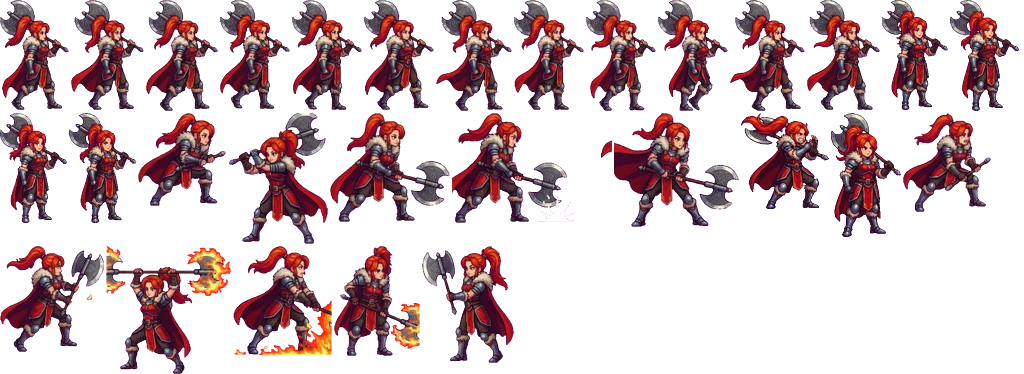
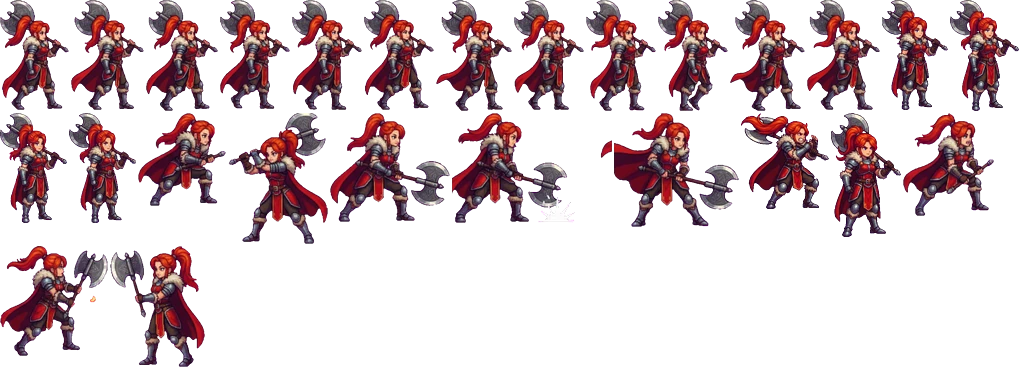
Héroes a escala de los NPC, ataques más legibles, pista del Portal que no tapa y medallones en las misiones
- Héroes un 24% más grandes (a la par o algo más que los vecinos de la villa)
- El golpe cuerpo a cuerpo reparte su animación por todo el intervalo entre golpes
- Fuera los fotogramas de frente o rotos (lanzamiento de la Artificiera, hechizo de Rompeyelmos)
- La pista «camina hasta el Portal» se quita en cuanto el Portal o un vecino muestran su aviso
- Misiones diarias con medallón pintado por tipo (brilla al completarse); icono pintado en el Tablón

Claude-Session: https://claude.ai/code/session_015RNUyaQ6fKR3Ufego5oPP2

Changed region(s): [[0.0, 0.0599, 1.0, 1.0]]

diff --git a/www/js/anim_data.js b/www/js/anim_data.js
@@ -1,3 +1,3 @@
 /* Generado por tools/art/build_heroes.py — no editar a mano. */
 'use strict';
-const HERO_ANIM = {"iop":{"bh":110,"walk":[[0,0,69,110,31.8,109.3],[71,0,73,110,35.5,110.0],[146,0,72,111,34.0,110.4],[220,0,70,109,29.9,108.9],[292,0,70,110,30.5,109.3],[364,0,70,110,33.3,110.0],[436,0,76,111,40.8,110.4],[514,0,70,110,31.2,109.3],[586,0,70,111,32.3,110.7],[658,0,70,111,32.1,110.7],[730,0,75,111,42.1,111.1],[807,0,73,110,36.3,110.0]],"idle":[[882,0,66,110,29.9,110.1],[950,0,69,111,32.4,110.8],[0,113,67,110,31.6,109.9],[69,113,67,110,32.3,109.4]],"attack":[[138,113,88,93,43.6,92.5],[228,113,100,131,54.3,130.4],[330,113,120,109,55.9,108.7],[452,113,160,110,66.6,110.0],[614,113,125,114,66.1,113.1]],"hurt":[[741,113,88,96,50.0,95.9],[831,113,70,124,28.5,124.1]],"cast":[[903,113,88,99,43.2,99.0],[0,246,104,106,40.3,106.0],[106,246,125,128,52.3,127.1],[233,246,99,110,59.7,110.0],[334,246,86,110,49.8,110.0],[422,246,92,117,57.5,116.3]]},"cra":{"bh":110,"walk":[[0,0,76,110,37.3,109.7],[78,0,77,110,38.5,110.0],[157,0,77,110,38.4,110.0],[236,0,76,111,38.5,110.3],[314,0,76,109,36.7,109.0],[392,0,76,109,37.0,109.0],[470,0,76,109,35.7,109.0],[548,0,76,109,39.4,109.0],[626,0,76,111,37.1,110.7],[704,0,77,111,38.5,110.3],[783,0,76,111,35.2,110.7],[861,0,77,111,38.4,110.7]],"idle":[[940,0,74,111,36.8,110.7],[0,113,73,109,30.0,109.3]],"attack":[[75,113,43,109,21.3,108.4],[120,113,78,113,23.7,112.2],[200,113,77,112,23.7,111.9],[279,113,67,109,22.9,108.4],[348,113,81,112,22.6,111.6],[431,113,42,107,19.5,106.2]],"hurt":[[475,113,91,108,43.9,107.9],[568,113,77,112,46.1,112.1]],"cast":[[647,113,92,106,32.4,105.8],[741,113,106,110,33.5,110.0],[849,113,91,110,32.8,109.2],[0,228,134,111,62.7,111.1],[136,228,106,130,18.9,129.9]]},"feca":{"bh":110,"walk":[[0,0,59,110,33.0,110.0],[61,0,59,110,33.0,110.0],[122,0,58,110,31.4,110.0],[182,0,59,110,33.1,110.0],[243,0,58,111,31.7,110.8],[303,0,58,112,32.1,111.7],[363,0,59,112,32.9,111.3],[424,0,59,110,32.8,110.0],[485,0,58,111,31.4,110.8],[545,0,58,110,31.6,109.6]],"idle":[[605,0,54,110,24.2,110.2],[661,0,56,110,23.6,110.0],[719,0,59,110,25.2,109.8]],"attack":[[780,0,96,108,35.2,107.1],[878,0,119,111,37.6,111.0],[0,114,80,110,33.6,109.0],[82,114,103,115,36.6,114.8]],"hurt":[[187,114,107,102,61.6,101.8],[296,114,68,118,30.4,118.2]],"cast":[[366,114,66,100,29.6,99.7],[434,114,123,122,51.5,121.5],[559,114,76,110,37.6,110.0],[637,114,162,110,66.0,109.2],[801,114,58,124,26.6,124.0]]},"sombra":{"bh":110,"walk":[[0,0,86,110,37.7,110.0],[88,0,85,110,37.8,110.0],[175,0,72,110,36.7,110.0],[249,0,86,110,36.9,110.0],[337,0,86,110,37.6,110.0],[425,0,73,111,38.0,110.4],[500,0,73,111,37.8,110.8],[575,0,73,110,38.0,110.0],[650,0,72,110,36.9,109.6],[724,0,72,110,37.9,110.0],[798,0,72,110,37.5,109.6],[872,0,72,110,36.5,110.0]],"idle":[[946,0,70,110,33.1,109.9],[0,113,71,111,33.9,110.6],[73,113,67,110,31.0,109.7],[142,113,69,110,33.0,110.1]],"attack":[[213,113,126,106,54.7,105.5],[341,113,127,110,54.9,109.1],[470,113,123,108,66.9,107.3],[595,113,107,113,53.0,112.3],[704,113,127,111,55.3,110.9],[833,113,143,125,66.1,124.5]],"hurt":[[0,240,72,108,35.1,108.0],[74,240,99,112,40.1,112.0]],"cast":[[175,240,124,110,52.9,110.9],[301,240,131,106,64.0,105.7],[434,240,139,107,62.5,106.7],[575,240,124,110,52.3,110.0],[701,240,141,109,64.1,108.1],[844,240,124,110,52.6,110.0]]},"domadora":{"bh":110,"walk":[[0,0,60,107,27.5,106.4],[62,0,59,107,27.1,106.9],[123,0,60,107,27.2,106.4],[185,0,59,107,27.2,106.4],[246,0,60,109,27.4,108.2],[308,0,62,110,29.7,109.6],[372,0,66,110,32.0,110.0],[440,0,64,110,31.3,109.1],[506,0,61,110,27.5,110.0],[569,0,62,112,28.6,111.3],[633,0,66,112,31.1,111.8],[701,0,67,112,34.1,111.3],[770,0,61,114,27.7,113.1],[833,0,62,114,28.1,113.1],[897,0,61,114,27.6,113.6],[960,0,61,114,25.8,114.0]],"idle":[[0,116,53,110,25.3,110.1],[55,116,54,110,25.9,109.9],[111,116,54,110,26.1,109.5],[167,116,53,110,25.0,110.3]],"attack":[[222,116,126,120,42.4,119.5],[350,116,135,102,58.9,101.5],[487,116,149,110,39.5,109.2],[638,116,149,110,39.6,109.8]],"hurt":[[789,116,85,109,50.0,109.0],[876,116,61,111,27.2,111.3]],"cast":[[939,116,76,81,39.5,80.5],[0,238,105,127,52.2,127.0],[107,238,121,131,62.1,130.4],[230,238,132,93,31.0,93.0]]},"artificiera":{"bh":110,"walk":[[0,0,57,109,28.3,108.2],[59,0,69,109,27.3,108.6],[130,0,69,109,27.1,108.6],[201,0,69,109,27.4,108.6],[272,0,69,110,27.5,109.4],[343,0,70,111,28.6,110.2],[415,0,70,111,31.2,110.2],[487,0,68,110,30.8,109.8],[557,0,70,112,27.7,111.4],[629,0,70,112,28.8,111.4],[701,0,70,111,27.4,111.0],[773,0,70,111,28.0,111.0]],"idle":[[845,0,60,110,23.1,109.7],[907,0,56,110,22.4,110.1],[965,0,56,111,22.3,110.3],[0,114,53,110,22.2,109.9]],"attack":[[55,114,65,107,33.9,106.8],[122,114,69,112,32.4,112.1],[193,114,110,110,53.6,109.8],[305,114,107,111,30.5,110.2]],"hurt":[[414,114,80,111,46.2,110.6],[496,114,45,109,24.3,108.4]],"cast":[[543,114,95,104,38.9,103.4],[640,114,80,117,35.9,116.2],[722,114,109,108,40.7,107.8],[833,114,143,110,66.3,110.0],[0,233,104,122,48.5,121.7]]},"berserker":{"bh":110,"walk":[[0,0,142,111,36.3,110.0],[144,0,143,111,35.8,110.0],[289,0,139,111,33.5,110.0],[430,0,136,110,35.6,109.4],[568,0,149,111,42.4,110.0],[719,0,145,109,37.1,108.9],[866,0,146,109,43.8,108.9],[0,113,136,109,35.7,108.9],[138,113,149,111,41.4,110.6],[289,113,139,111,33.8,110.6],[430,113,146,110,43.8,109.4],[578,113,138,111,37.4,110.0],[718,113,149,111,42.0,110.6],[869,113,145,110,37.9,109.4],[0,226,144,111,36.1,110.0],[146,226,137,111,35.7,110.0]],"idle":[[285,226,137,110,33.8,109.7],[424,226,138,110,35.3,110.0],[564,226,96,113,42.8,112.6]],"attack":[[662,226,145,94,35.9,93.8],[809,226,139,118,39.6,118.1],[0,346,123,111,37.6,110.4],[125,346,142,110,32.9,110.0],[269,346,143,110,33.1,110.0],[414,346,142,110,32.9,110.0]],"hurt":[[558,346,119,110,66.3,110.0]],"cast":[[679,346,121,104,33.1,103.8],[802,346,96,108,29.9,107.6],[900,346,115,111,57.3,110.6],[0,459,93,109,38.0,108.4],[95,459,132,114,67.0,113.6],[229,459,106,114,36.1,113.6]]}};
+const HERO_ANIM = {"iop":{"bh":110,"walk":[[0,0,69,110,31.8,109.3],[71,0,73,110,35.5,110.0],[146,0,72,111,34.0,110.4],[220,0,70,109,29.9,108.9],[292,0,70,110,30.5,109.3],[364,0,70,110,33.3,110.0],[436,0,76,111,40.8,110.4],[514,0,70,110,31.2,109.3],[586,0,70,111,32.3,110.7],[658,0,70,111,32.1,110.7],[730,0,75,111,42.1,111.1],[807,0,73,110,36.3,110.0]],"idle":[[882,0,66,110,29.9,110.1],[950,0,69,111,32.4,110.8],[0,113,67,110,31.6,109.9],[69,113,67,110,32.3,109.4]],"attack":[[138,113,88,93,43.6,92.5],[228,113,100,131,54.3,130.4],[330,113,120,109,55.9,108.7],[452,113,160,110,66.6,110.0],[614,113,125,114,66.1,113.1]],"hurt":[[741,113,88,96,50.0,95.9],[831,113,70,124,28.5,124.1]],"cast":[[903,113,91,103,44.8,102.6],[0,246,108,110,41.8,109.7],[110,246,95,121,60.0,120.6]]},"cra":{"bh":110,"walk":[[0,0,76,110,37.3,109.7],[78,0,77,110,38.5,110.0],[157,0,77,110,38.4,110.0],[236,0,76,111,38.5,110.3],[314,0,76,109,36.7,109.0],[392,0,76,109,37.0,109.0],[470,0,76,109,35.7,109.0],[548,0,76,109,39.4,109.0],[626,0,76,111,37.1,110.7],[704,0,77,111,38.5,110.3],[783,0,76,111,35.2,110.7],[861,0,77,111,38.4,110.7]],"idle":[[940,0,74,111,36.8,110.7],[0,113,73,109,30.0,109.3]],"attack":[[75,113,43,109,21.3,108.4],[120,113,78,113,23.7,112.2],[200,113,77,112,23.7,111.9],[279,113,67,109,22.9,108.4],[348,113,81,112,22.6,111.6],[431,113,42,107,19.5,106.2]],"hurt":[[475,113,91,108,43.9,107.9],[568,113,77,112,46.1,112.1]],"cast":[[647,113,92,106,32.4,105.8],[741,113,106,110,33.5,110.0],[849,113,91,110,32.8,109.2],[0,228,134,111,62.7,111.1],[136,228,106,130,18.9,129.9]]},"feca":{"bh":110,"walk":[[0,0,59,110,33.0,110.0],[61,0,59,110,33.0,110.0],[122,0,58,110,31.4,110.0],[182,0,59,110,33.1,110.0],[243,0,58,111,31.7,110.8],[303,0,58,112,32.1,111.7],[363,0,59,112,32.9,111.3],[424,0,59,110,32.8,110.0],[485,0,58,111,31.4,110.8],[545,0,58,110,31.6,109.6]],"idle":[[605,0,54,110,24.2,110.2],[661,0,56,110,23.6,110.0],[719,0,59,110,25.2,109.8]],"attack":[[780,0,96,108,35.2,107.1],[878,0,119,111,37.6,111.0],[0,114,80,110,33.6,109.0],[82,114,103,115,36.6,114.8]],"hurt":[[187,114,107,102,61.6,101.8],[296,114,68,118,30.4,118.2]],"cast":[[366,114,66,100,29.6,99.7],[434,114,123,122,51.5,121.5],[559,114,76,110,37.6,110.0],[637,114,162,110,66.0,109.2],[801,114,58,124,26.6,124.0]]},"sombra":{"bh":110,"walk":[[0,0,86,110,37.7,110.0],[88,0,85,110,37.8,110.0],[175,0,72,110,36.7,110.0],[249,0,86,110,36.9,110.0],[337,0,86,110,37.6,110.0],[425,0,73,111,38.0,110.4],[500,0,73,111,37.8,110.8],[575,0,73,110,38.0,110.0],[650,0,72,110,36.9,109.6],[724,0,72,110,37.9,110.0],[798,0,72,110,37.5,109.6],[872,0,72,110,36.5,110.0]],"idle":[[946,0,70,110,33.1,109.9],[0,113,71,111,33.9,110.6],[73,113,67,110,31.0,109.7],[142,113,69,110,33.0,110.1]],"attack":[[213,113,126,106,54.7,105.5],[341,113,127,110,54.9,109.1],[470,113,123,108,66.9,107.3],[595,113,107,113,53.0,112.3],[704,113,127,111,55.3,110.9],[833,113,143,125,66.1,124.5]],"hurt":[[0,240,72,108,35.1,108.0],[74,240,99,112,40.1,112.0]],"cast":[[175,240,124,110,52.9,110.9],[301,240,131,106,64.0,105.7],[434,240,139,107,62.5,106.7],[575,240,124,110,52.3,110.0],[701,240,141,109,64.1,108.1],[844,240,124,110,52.6,110.0]]},"domadora":{"bh":110,"walk":[[0,0,60,107,27.5,106.4],[62,0,59,107,27.1,106.9],[123,0,60,107,27.2,106.4],[185,0,59,107,27.2,106.4],[246,0,60,109,27.4,108.2],[308,0,62,110,29.7,109.6],[372,0,66,110,32.0,110.0],[440,0,64,110,31.3,109.1],[506,0,61,110,27.5,110.0],[569,0,62,112,28.6,111.3],[633,0,66,112,31.1,111.8],[701,0,67,112,34.1,111.3],[770,0,61,114,27.7,113.1],[833,0,62,114,28.1,113.1],[897,0,61,114,27.6,113.6],[960,0,61,114,25.8,114.0]],"idle":[[0,116,53,110,25.3,110.1],[55,116,54,110,25.9,109.9],[111,116,54,110,26.1,109.5],[167,116,53,110,25.0,110.3]],"attack":[[222,116,126,120,42.4,119.5],[350,116,135,102,58.9,101.5],[487,116,149,110,39.5,109.2],[638,116,149,110,39.6,109.8]],"hurt":[[789,116,85,109,50.0,109.0],[876,116,61,111,27.2,111.3]],"cast":[[939,116,76,81,39.5,80.5],[0,238,105,127,52.2,127.0],[107,238,121,131,62.1,130.4],[230,238,132,93,31.0,93.0]]},"artificiera":{"bh":110,"walk":[[0,0,57,109,28.3,108.2],[59,0,69,109,27.3,108.6],[130,0,69,109,27.1,108.6],[201,0,69,109,27.4,108.6],[272,0,69,110,27.5,109.4],[343,0,70,111,28.6,110.2],[415,0,70,111,31.2,110.2],[487,0,68,110,30.8,109.8],[557,0,70,112,27.7,111.4],[629,0,70,112,28.8,111.4],[701,0,70,111,27.4,111.0],[773,0,70,111,28.0,111.0]],"idle":[[845,0,60,110,23.1,109.7],[907,0,56,110,22.4,110.1],[965,0,56,111,22.3,110.3],[0,114,53,110,22.2,109.9]],"attack":[[55,114,65,107,33.9,106.6],[122,114,69,112,32.4,111.9],[193,114,107,110,30.5,110.0]],"hurt":[[302,114,80,111,46.2,110.6],[384,114,45,109,24.3,108.4]],"cast":[[431,114,90,98,36.8,97.9],[523,114,77,110,34.0,110.0],[602,114,98,116,45.9,115.2]]},"berserker":{"bh":110,"walk":[[0,0,142,111,36.3,110.0],[144,0,143,111,35.8,110.0],[289,0,139,111,33.5,110.0],[430,0,136,110,35.6,109.4],[568,0,149,111,42.4,110.0],[719,0,145,109,37.1,108.9],[866,0,146,109,43.8,108.9],[0,113,136,109,35.7,108.9],[138,113,149,111,41.4,110.6],[289,113,139,111,33.8,110.6],[430,113,146,110,43.8,109.4],[578,113,138,111,37.4,110.0],[718,113,149,111,42.0,110.6],[869,113,145,110,37.9,109.4],[0,226,144,111,36.1,110.0],[146,226,137,111,35.7,110.0]],"idle":[[285,226,137,110,33.8,109.7],[424,226,138,110,35.3,110.0],[564,226,96,113,42.8,112.6]],"attack":[[662,226,145,94,35.9,93.8],[809,226,139,118,39.6,118.1],[0,346,123,111,37.6,110.4],[125,346,142,110,32.9,110.0],[269,346,143,110,33.1,110.0],[414,346,142,110,32.9,110.0]],"hurt":[[558,346,119,110,66.3,110.0]],"cast":[[679,346,121,104,33.1,103.8],[802,346,96,108,29.9,107.6],[900,346,115,111,57.3,110.6],[0,459,93,109,38.0,108.4],[95,459,132,114,67.0,113.6],[229,459,106,114,36.1,113.6]]}};

diff --git a/www/js/content.js b/www/js/content.js
@@ -81,6 +81,10 @@ const DAILY_POOL = [
   { id: 'ult', text: (g) => `Usa tu definitiva ${g} veces`, goals: [2, 4], seals: [3, 6] },
   { id: 'event', text: (g) => `Completa ${g} evento${g > 1 ? 's' : ''} de Grieta`, goals: [1, 2, 3], seals: [3, 5, 8] },
 ];
+// medallón pintado de cada misión (img/talents e img/icons)
+const QUEST_ICON = { kill: ['talents/swords', '255,120,90'], elite: ['talents/crown', '255,200,80'], boss: ['talents/skull', '255,90,70'], rift: ['talents/rune', '120,190,255'],
+  hard: ['talents/mountain', '200,160,255'], amber: ['talents/amber', '255,180,60'], ult: ['talents/burst', '255,140,220'], event: ['talents/trophy', '255,214,110'], bonus: ['icons/chest', '255,214,110'] };
+const questMedal = (id) => { const [img, rgb] = QUEST_ICON[id] || QUEST_ICON.event; return `<div class="q-medal" style="--qc:${rgb}"><img src="img/${img}.png" alt=""></div>`; };
 const DAILY_BONUS = 6; // cofre por completar las 3 misiones del día
 const todayKey = () => { const d = new Date(); return d.getFullYear() + '-' + (d.getMonth() + 1) + '-' + d.getDate(); };
 const questSeals = (q) => { const def = DAILY_POOL.find((x) => x.id === q.id); return def.seals[Math.max(0, def.goals.indexOf(q.goal))]; };
@@ -194,12 +198,12 @@ function buildQuests() {
   if (questTab === 'quests') {
     list.innerHTML = d.list.map((q, i) => {
       const def = DAILY_POOL.find((x) => x.id === q.id), done = q.prog >= q.goal;
-      return `<div class="quest ${q.claimed ? 'claimed' : done ? 'done' : ''}">
+      return `<div class="quest ${q.claimed ? 'claimed' : done ? 'done' : ''}">${questMedal(q.id)}
         <div class="q-txt"><b>${def.text(q.goal)}</b><span>Recompensa: ${SEAL_SVG} ${questSeals(q)} Sellos de Gesta${def.elixir ? ' + un elixir al azar' : ''}</span>
           <div class="q-bar"><i style="width:${(q.prog / q.goal) * 100}%"></i></div><small>${fmtNum(q.prog)} / ${fmtNum(q.goal)}</small></div>
         <button class="btn" data-q="${i}" ${done && !q.claimed ? '' : 'disabled'}>${q.claimed ? '✔ Cobrada' : done ? 'Reclamar' : 'En curso'}</button></div>`;
-    }).join('') + `<div class="quest bonus ${d.bonus ? 'claimed' : bonusReady(d) ? 'done' : ''}">
-        <div class="q-txt"><b>🎁 Cofre del día</b><span>Completa y cobra las 3 misiones: ${SEAL_SVG} ${DAILY_BONUS} Sellos de Gesta extra</span></div>
+    }).join('') + `<div class="quest bonus ${d.bonus ? 'claimed' : bonusReady(d) ? 'done' : ''}">${questMedal('bonus')}
+        <div class="q-txt"><b>Cofre del día</b><span>Completa y cobra las 3 misiones: ${SEAL_SVG} ${DAILY_BONUS} Sellos de Gesta extra</span></div>
         <button class="btn" data-q="bonus" ${bonusReady(d) ? '' : 'disabled'}>${d.bonus ? '✔ Abierto' : bonusReady(d) ? 'Abrir' : 'Cerrado'}</button></div>`;
     const left = 24 - new Date().getHours();
     $('questNote').innerHTML = `Nuevas misiones en ${left} h · cada héroe tiene las suyas. Los <b>Sellos de Gesta</b> se gastan en Trascendencia, Forja y Armería.`;

diff --git a/www/css/style.css b/www/css/style.css
@@ -1161,3 +1161,14 @@ button.gem { cursor: pointer; color: #6a7090; font-weight: 900; font-size: 18px;
 @keyframes wbIn { 0% { opacity: 0; transform: scale(1.12); } 12% { opacity: 1; } 62% { opacity: 1; } 100% { opacity: 0; transform: scale(1.02); } }
 .mi-art { position: relative; height: 74px; margin: -8px -8px 8px; border-radius: 8px 8px 0 0; background: center 55% / cover no-repeat; box-shadow: inset 0 -30px 30px -10px rgba(14, 19, 38, .95); }
 .mi-art span { position: absolute; left: 10px; bottom: 6px; font: italic 700 12px Garamond, Georgia, serif; color: #f2e6c8; text-shadow: 0 1px 3px #000; }
+
+/* Misiones: medallón pintado por tipo */
+.quest { gap: 12px; }
+.q-medal { flex: none; width: 54px; height: 54px; border-radius: 50%; display: grid; place-items: center; position: relative;
+  background: radial-gradient(circle at 50% 40%, rgba(var(--qc), .35), rgba(14, 18, 34, .95) 70%); border: 2px solid #c9b27a;
+  box-shadow: inset 0 0 0 2px rgba(8, 10, 20, .8), 0 3px 8px rgba(0, 0, 0, .5); }
+.q-medal img { width: 38px; height: 38px; image-rendering: pixelated; filter: drop-shadow(0 2px 2px rgba(0, 0, 0, .7)); }
+.quest.done .q-medal { border-color: #ffe08a; box-shadow: inset 0 0 0 2px rgba(8, 10, 20, .8), 0 0 14px rgba(var(--qc), .8); animation: medalPulse 1.4s ease-in-out infinite; }
+.quest.claimed .q-medal { filter: grayscale(.7) brightness(.8); }
+@keyframes medalPulse { 50% { transform: scale(1.06); } }
+@media (max-height: 430px) { .q-medal { width: 44px; height: 44px; } .q-medal img { width: 30px; height: 30px; } }

diff --git a/www/js/heroes.js b/www/js/heroes.js
@@ -87,6 +87,9 @@ basicAttack = function () {
     } else if (s.v === 5) sigReady();
   }
 };
+function stretchSwing(sw0) {
+  if (P.swingT > 0 && P.swingT !== sw0) { P.swingMax = clamp(P.atkCd * 0.9, 0.2, 0.45); P.swingT = P.swingMax; }
+}
 function breakHelm() {
   const s = P.sig;
   s.v = 0; s.t = 0;
@@ -258,6 +261,11 @@ showClassInfo = function (id) {
 const _heroAnimPoseH = heroAnimPose;
 heroAnimPose = function (cls, o) {
   const A = HERO_ANIM[cls];
+  // golpe cuerpo a cuerpo: la animación ocupa todo el intervalo entre golpes (no 0,2 s y luego quieto)
+  if (A && P && cls === P.cls && P.swingMax && o.swing > 0 && !(o.hurt > 0) && !(P.castAnim > 0)) {
+    const n = A.attack.length;
+    return ['attack', Math.min(n - 1, Math.floor((1 - o.swing / P.swingMax) * n))];
+  }
   if (A && A.cast && scene === 'rift' && P && cls === P.cls && P.castAnim > 0 && !(o.hurt > 0)) {
     const n = A.cast.length;
     return ['cast', Math.min(n - 1, Math.floor((1 - P.castAnim / 0.5) * n))];
@@ -337,3 +345,7 @@ function castFlourish() {
   }
   box.innerHTML = h;
 })();
+
+// el golpe cuerpo a cuerpo dura tanto como el intervalo entre golpes (ver heroAnimPose)
+const _basicAttackSw = basicAttack;
+basicAttack = function () { const sw0 = P.swingT; _basicAttackSw(); stretchSwing(sw0); };

diff --git a/www/index.html b/www/index.html
@@ -126,7 +126,7 @@
   <div id="quests" class="overlay sheet-ov">
     <div class="sheet quest-sheet">
       <header class="sh-head">
-        <svg width="26" height="26" viewBox="0 0 24 24" aria-hidden="true"><rect x="4" y="3" width="16" height="18" rx="1" fill="#efe2bf" stroke="#2a1a0c" stroke-width="1.5"/><path d="M7 8 H17 M7 12 H17 M7 16 H13" stroke="#8a6a4a" stroke-width="1.5"/><circle cx="12" cy="4" r="1.6" fill="#b03a2e"/></svg>
+        <img src="img/ui/quest.png" width="30" height="30" alt="" style="image-rendering:pixelated;filter:drop-shadow(0 2px 2px rgba(0,0,0,.6))">
         <span class="sh-name">Tablón</span>
         <div id="questTabs" class="sh-tabs shop-tabs"></div>
         <span id="questAmber" class="sh-amber" style="margin-left:auto"></span>

diff --git a/www/js/tutorial.js b/www/js/tutorial.js
@@ -129,3 +129,10 @@ function hubHint() {
 }
 const _buildHubTut = buildHub;
 buildHub = function () { _buildHubTut(); if (state === 'hub' && !tutCur) hubHint(); };
+
+// la pista «camina hasta el Portal» se quita en cuanto hay algo cerca con su propio aviso
+(function hubHintWatch() {
+  requestAnimationFrame(hubHintWatch);
+  if (!tutCur || tutCur.icon !== '🌀') return;
+  if (state !== 'hub' || (typeof vNear !== 'undefined' && vNear)) tutShow(null); // junto al Portal (o a un vecino) ya sale su propio aviso
+})();

diff --git a/www/js/art.js b/www/js/art.js
@@ -168,7 +168,7 @@ function heroArt(cls) {
   if (pa) return { img: pa, right: false, px: false, url: 'img/heroes/' + cls + '.png' };
   return null;
 }
-const HERO_H = 84; // altura en unidades de mundo
+const HERO_H = 104; // altura en unidades de mundo (a la par o algo más que los NPC de la villa)
 
 // ---------- "Rig" de los héroes: torso + dos piernas, para animar a partir de una sola imagen ----------
 // hip: altura de la cadera (fracción de la imagen); cx: separación entre piernas

diff --git a/tools/art/build_heroes.py b/tools/art/build_heroes.py
@@ -35,9 +35,9 @@ CELLS = {
 }
 # fotogramas elegidos de las hojas en celdas (índice de celda en orden de lectura)
 CELL_KEEP = {
-    'artificiera': {'attack': [2, 0, 1, 3], 'cast': [0, 1, 3, 4, 5]}, 'berserker': {'cast': [0, 1, 2, 3, 8, 6]},
+    'artificiera': {'attack': [2, 0, 3], 'cast': [0, 1, 5]}, 'berserker': {'cast': [0, 1, 2, 3, 8, 6]},
     'cra': {'cast': [0, 1, 3, 4, 5]}, 'domadora': {'attack': [1, 0, 4, 7], 'cast': [0, 1, 2, 4]},
-    'feca': {'attack': [0, 1, 5, 4], 'cast': [0, 1, 2, 4, 5]}, 'iop': {'attack': [0, 2, 3, 4, 5], 'cast': [0, 1, 2, 3, 4, 5]},
+    'feca': {'attack': [0, 1, 5, 4], 'cast': [0, 1, 2, 4, 5]}, 'iop': {'attack': [0, 2, 3, 4, 5], 'cast': [0, 1, 5]},
     'sombra': {'attack': [0, 1, 2, 3, 4, 5], 'cast': [0, 1, 2, 3, 4, 5]},
 }
 PX_H = 300  # altura del arte de cuerpo entero (menú, diálogos)
